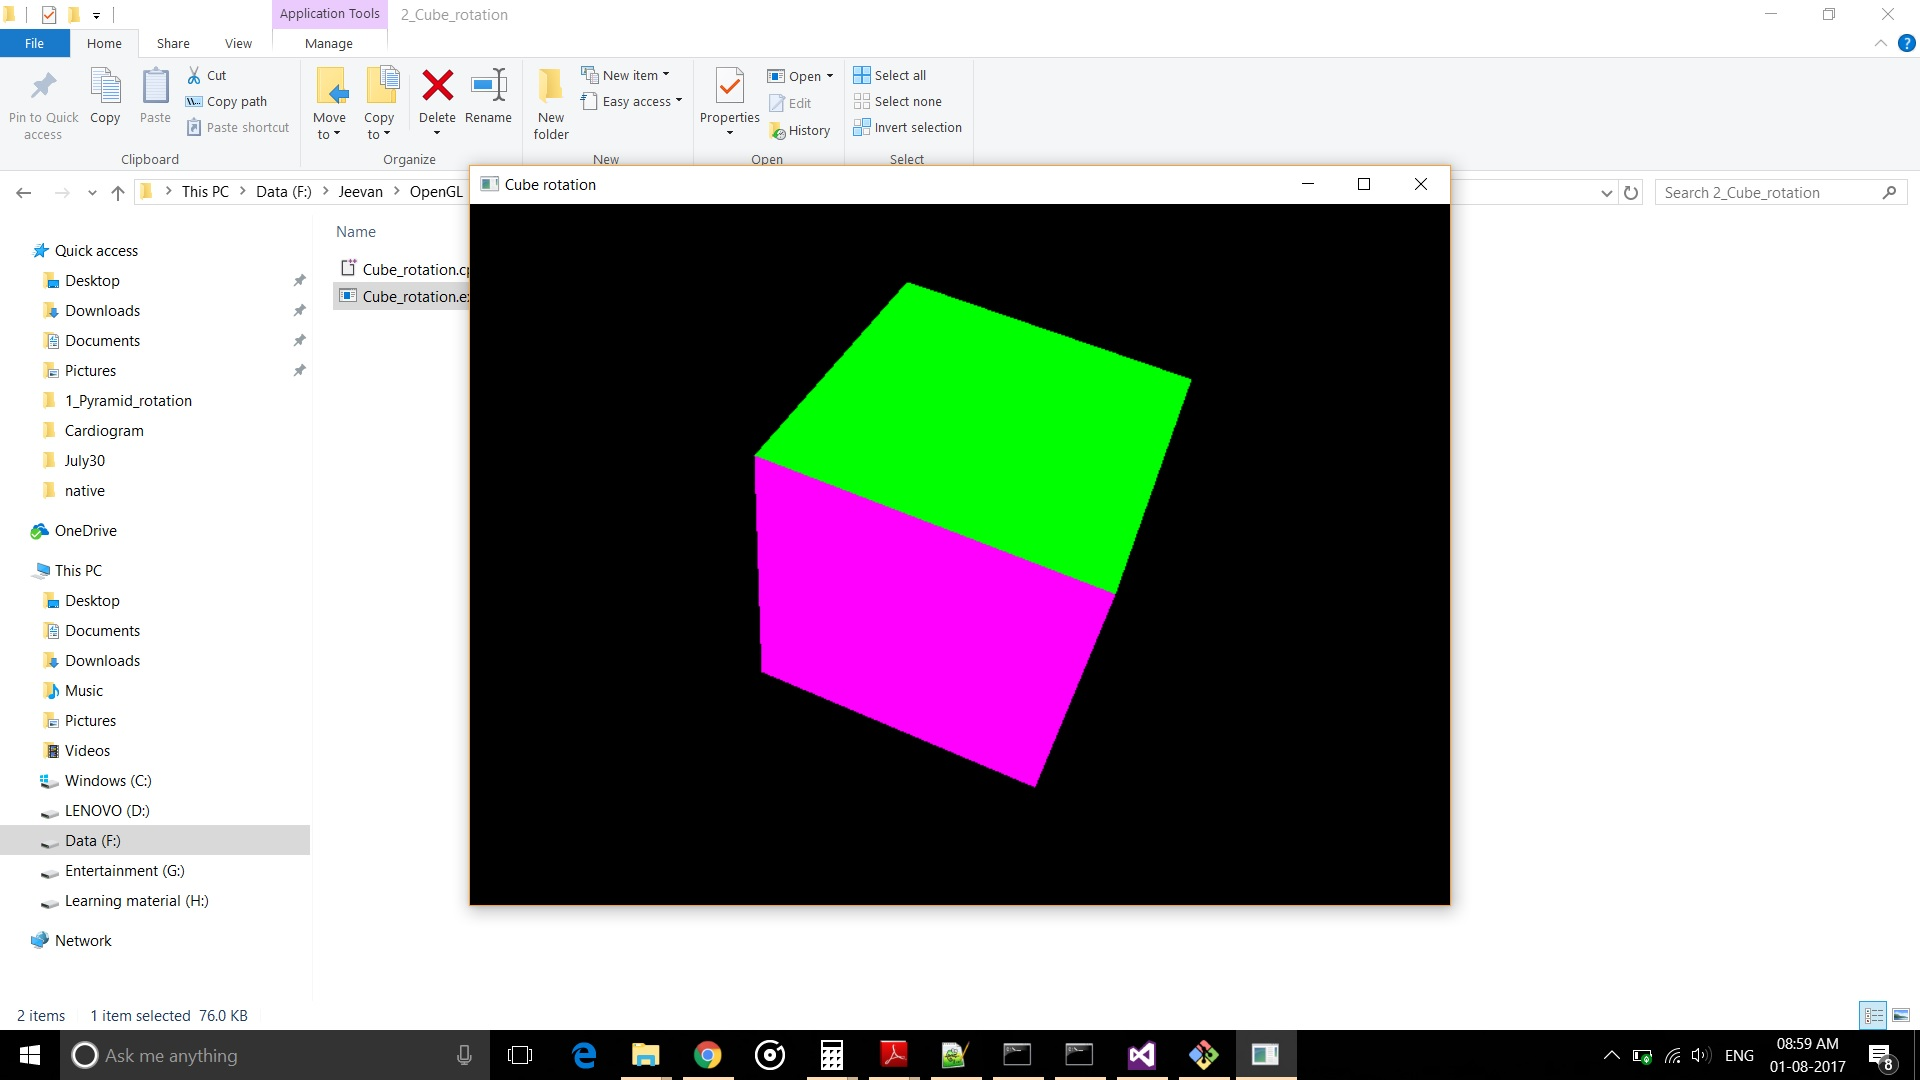
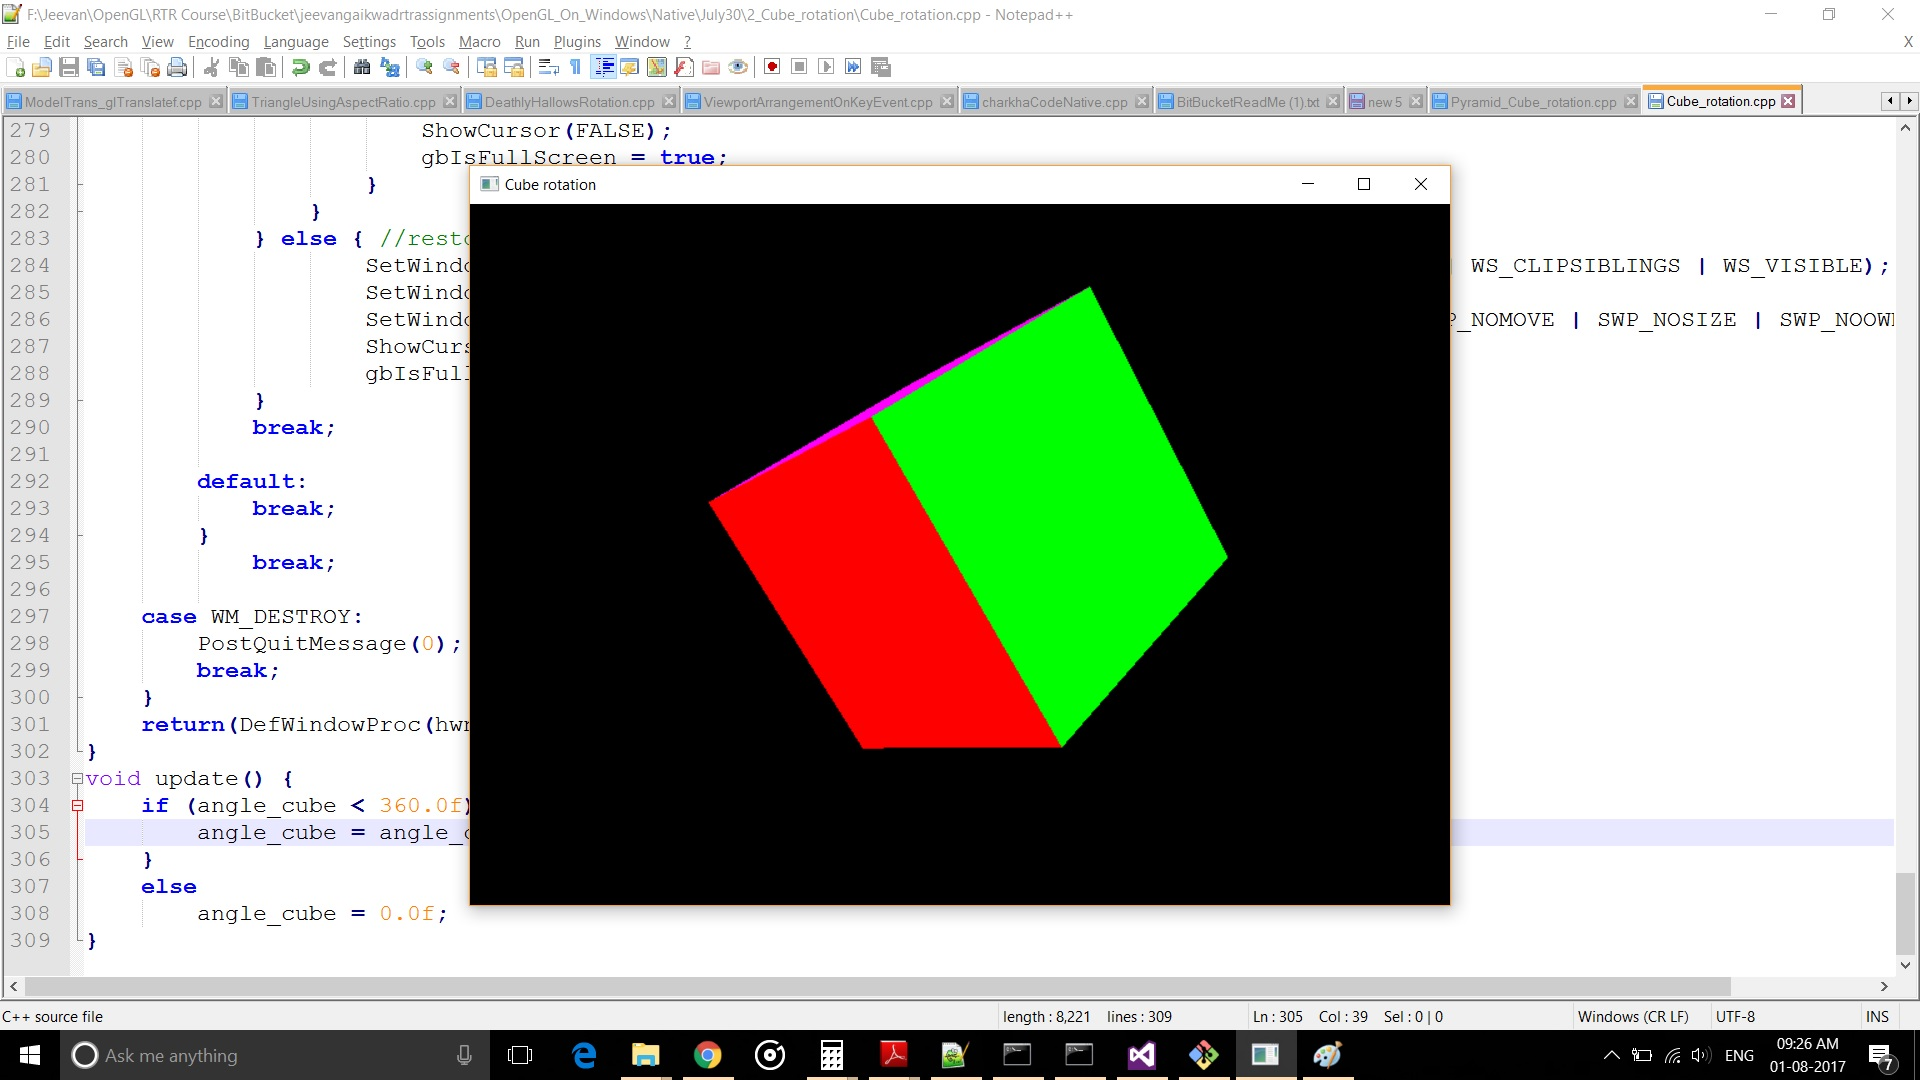
Enhancements

diff --git a/OpenGL_On_Windows/Native/July30/2_Cube_rotation/Cube_rotation.cpp b/OpenGL_On_Windows/Native/July30/2_Cube_rotation/Cube_rotation.cpp
@@ -14,7 +14,7 @@ bool gbActiveWindow=false;
 bool gbEscapeKeyPressed = false;
 HDC ghdc;
 HGLRC ghrc;
-GLfloat cube_pyramid = 0.0f;
+GLfloat angle_cube = 0.0f;
 int WINAPI WinMain(HINSTANCE hInstance, HINSTANCE hPrevInstance, LPSTR lpszCmdLine, int nCmdShow)
 {
 	void initialize();
@@ -200,9 +200,9 @@ void display() {
 	glLoadIdentity();
 	glTranslatef(0.0f,0.0f,-6.0f);
 	
-	glRotatef(cube_pyramid, 1.0f, 0.0f, 0.0f);
-	glRotatef(cube_pyramid, 0.0f, 1.0f, 0.0f);
-	glRotatef(cube_pyramid, 0.0f, 0.0f, 1.0f);
+	glRotatef(angle_cube, 1.0f, 0.0f, 0.0f);
+	glRotatef(angle_cube, 0.0f, 1.0f, 0.0f);
+	glRotatef(angle_cube, 0.0f, 0.0f, 1.0f);
 	drawCube();
 	SwapBuffers(ghdc);
 }
@@ -301,9 +301,9 @@ LRESULT CALLBACK WndProc(HWND hwnd, UINT iMsg, WPARAM wParam, LPARAM lParam)
 	return(DefWindowProc(hwnd, iMsg, wParam, lParam));
 }
 void update() {
-	if (cube_pyramid < 360.0f) {
-		cube_pyramid = cube_pyramid + 0.05f;
+	if (angle_cube < 360.0f) {
+		angle_cube = angle_cube + 0.01f;
 	}
 	else
-		cube_pyramid = 0.0f;
+		angle_cube = 0.0f;
 }
